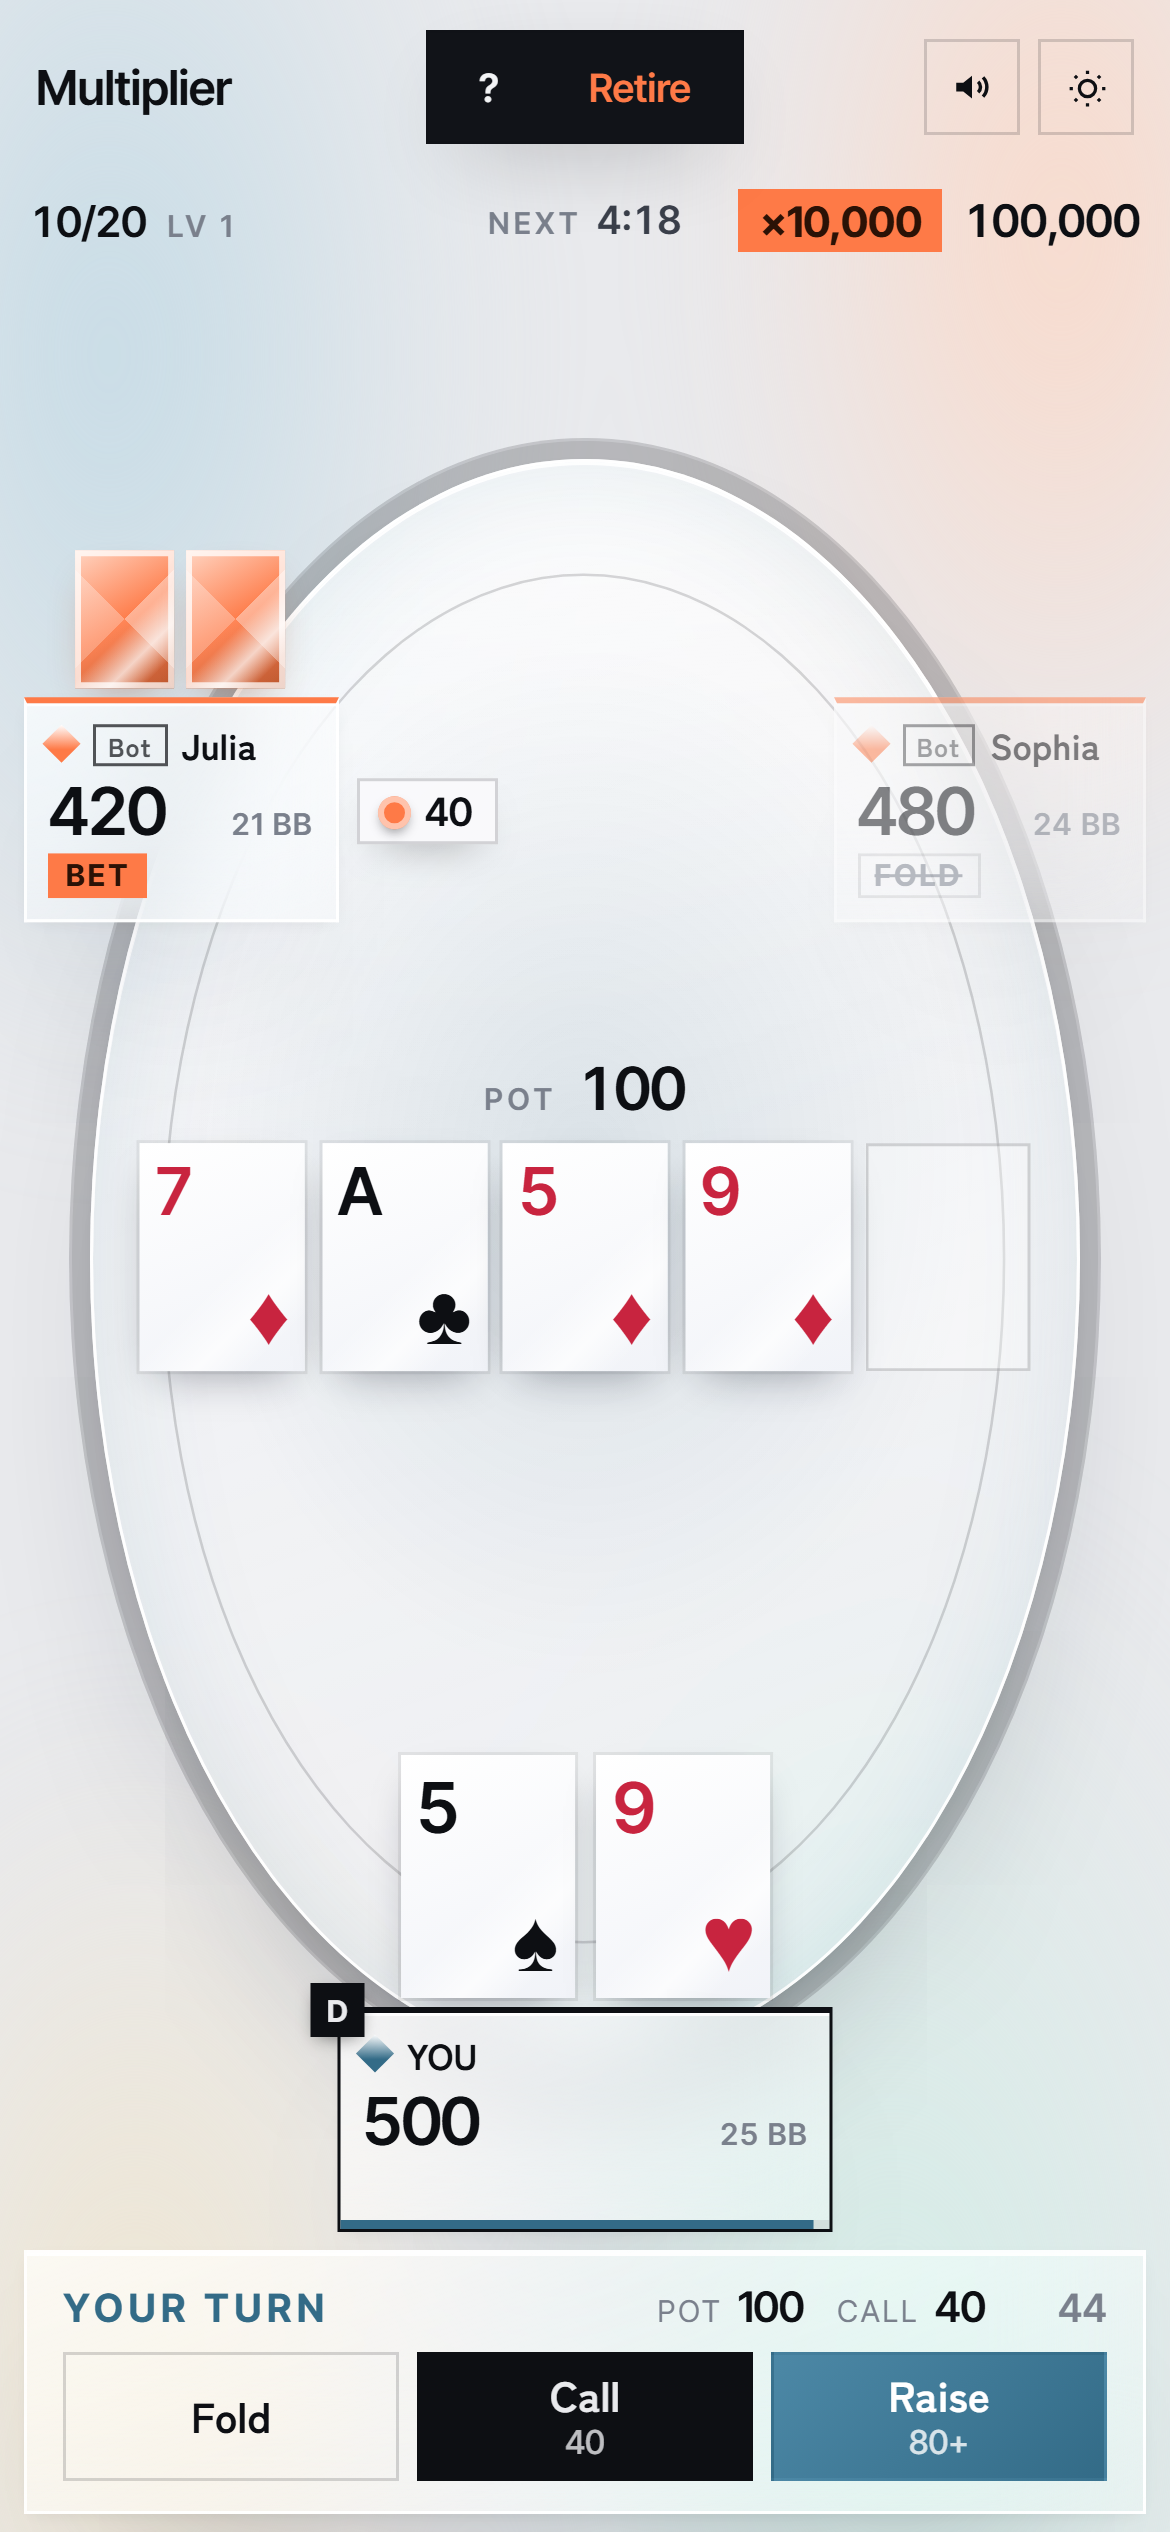
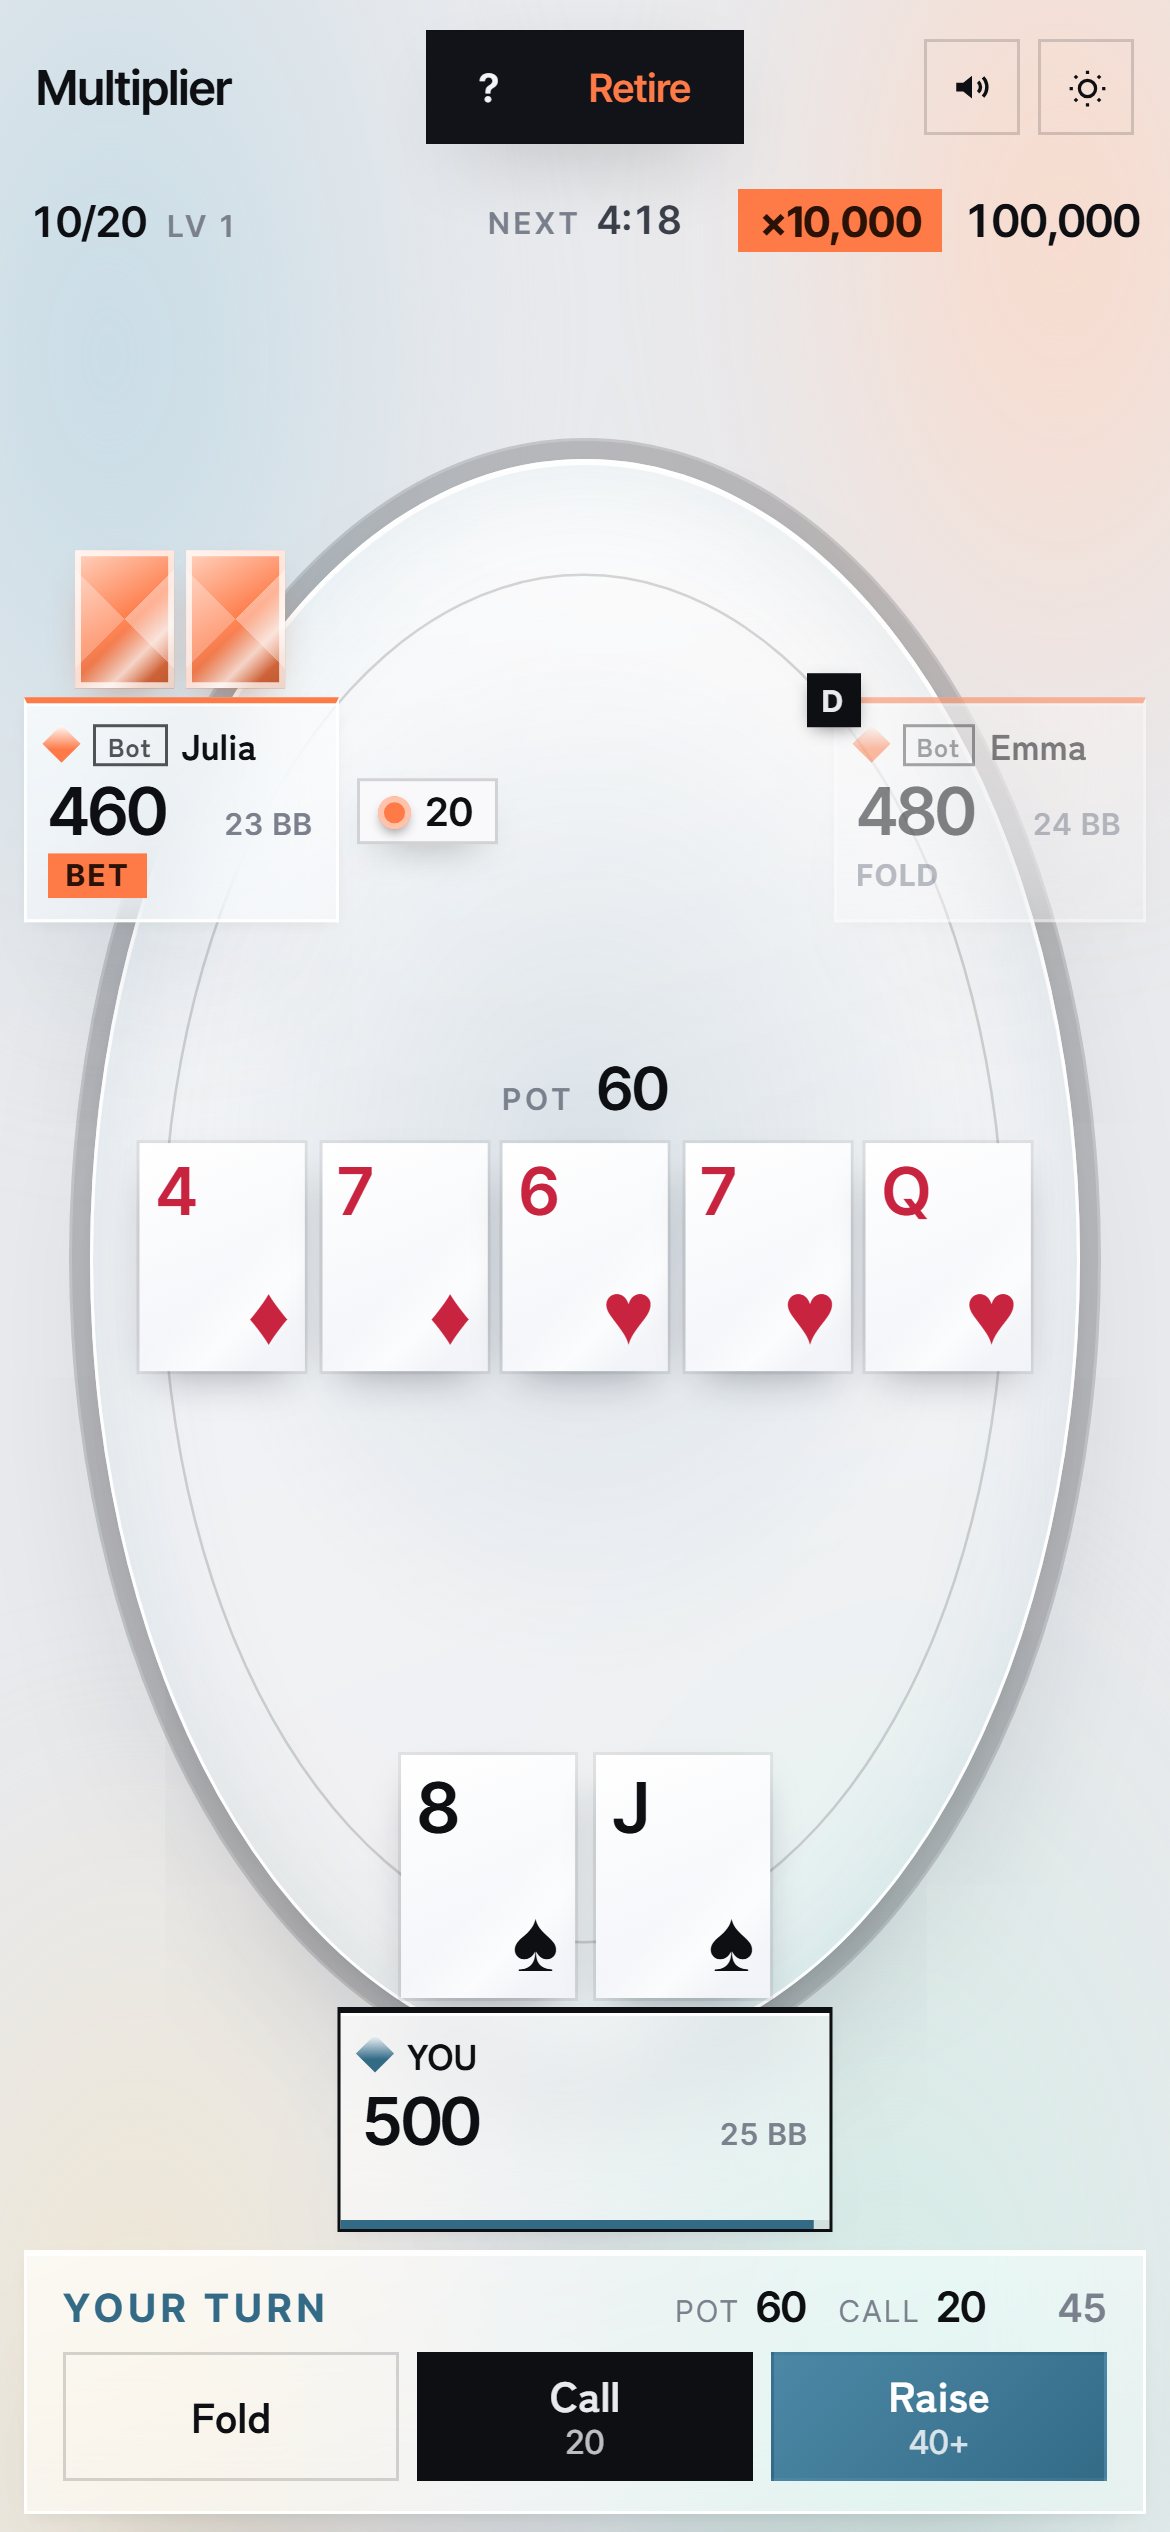
fix(ui): ライトテーマで大きな倍率のとき、回転中にルーレットが黒に切り替わらないようにする

diff --git a/src/style.css b/src/style.css
@@ -6,7 +6,7 @@
   --glass-hi:rgba(255,255,255,.74); --glass:rgba(255,255,255,.5); --glass-lo:rgba(255,255,255,.3);
   --edge:rgba(255,255,255,.9);
   --well:rgba(255,255,255,.34); --face:#F7F8FA;
-  --wd-face:#FFFFFF; --wd1:#FFFFFF; --wd2:#E2E4E9;
+  --wd-face:#FFFFFF; --wd1:#FFFFFF; --wd2:#E2E4E9; --wd-line:rgba(13,15,19,.16); --wd-ink:#3A3F4A; --wd-muted:#7A808C;
   --shadow:0 28px 60px -30px rgba(22,26,44,.38),0 2px 6px -2px rgba(22,26,44,.08);
   --you:#336B87; --cpu:#FE7A47; --you-soft:rgba(51,107,135,.12); --cpu-soft:rgba(254,122,71,.14); --cpu-ink:#2B1206; --you-text:#336B87;
   --card-ink:#0D0F13; --card-red:#C8243F;
@@ -24,7 +24,7 @@
     --hair:rgba(255,255,255,.08); --hair-2:rgba(255,255,255,.18);
     --glass-hi:rgba(255,255,255,.1); --glass:rgba(255,255,255,.06); --glass-lo:rgba(255,255,255,.03);
     --edge:rgba(255,255,255,.14); --well:rgba(255,255,255,.04); --face:#15171C;
-    --wd-face:#15171C; --wd1:#15171C; --wd2:#1E2127;
+    --wd-face:#15171C; --wd1:#15171C; --wd2:#1E2127; --wd-line:rgba(255,255,255,.18); --wd-ink:#C3C7D0; --wd-muted:#8B919D;
     --shadow:0 28px 60px -26px rgba(0,0,0,.75);
     --you-soft:rgba(51,107,135,.22); --cpu-soft:rgba(254,122,71,.16); --you-text:#7DB4CF;
     --nav-bg:rgba(255,255,255,.08); --nav-ink:#F1F2F5; --seg-on:rgba(255,255,255,.16);
@@ -39,7 +39,7 @@
   --hair:rgba(255,255,255,.08); --hair-2:rgba(255,255,255,.18);
   --glass-hi:rgba(255,255,255,.1); --glass:rgba(255,255,255,.06); --glass-lo:rgba(255,255,255,.03);
   --edge:rgba(255,255,255,.14); --well:rgba(255,255,255,.04); --face:#15171C;
-  --wd-face:#15171C; --wd1:#15171C; --wd2:#1E2127;
+  --wd-face:#15171C; --wd1:#15171C; --wd2:#1E2127; --wd-line:rgba(255,255,255,.18); --wd-ink:#C3C7D0; --wd-muted:#8B919D;
   --shadow:0 28px 60px -26px rgba(0,0,0,.75);
   --you-soft:rgba(51,107,135,.22); --cpu-soft:rgba(254,122,71,.16); --you-text:#7DB4CF;
   --nav-bg:rgba(255,255,255,.08); --nav-ink:#F1F2F5; --seg-on:rgba(255,255,255,.16);
@@ -401,8 +401,7 @@ dialog::backdrop{background:rgba(12,14,20,.28);-webkit-backdrop-filter:blur(8px)
 .w-stack{position:relative;z-index:2;display:grid;justify-items:center;gap:18px;width:100%;max-width:640px}
 /* dark palette for the dimmed tiers (applied under the darkening layer) */
 .wheel.dk{--bg:#0B0C10;--ink:#F1F2F5;--ink-2:#C3C7D0;--muted:#8B919D;--hair:rgba(255,255,255,.08);--hair-2:rgba(255,255,255,.18);
-  --glass-hi:rgba(255,255,255,.1);--glass-lo:rgba(255,255,255,.03);--edge:rgba(255,255,255,.14);--shadow:0 28px 60px -26px rgba(0,0,0,.75);--you-text:#7DB4CF;
-  --wd-face:#15171C;--wd1:#15171C;--wd2:#1E2127}
+  --glass-hi:rgba(255,255,255,.1);--glass-lo:rgba(255,255,255,.03);--edge:rgba(255,255,255,.14);--shadow:0 28px 60px -26px rgba(0,0,0,.75);--you-text:#7DB4CF}
 .wheel.dk.t3,.wheel.dk.t4{--bg:#05060A}
 .w-bg{inset:-40px;opacity:0}
 .w-rays{left:var(--rx,50%);top:var(--ry,50%);width:170vmax;height:170vmax;margin:-85vmax 0 0 -85vmax;opacity:0;will-change:transform;
@@ -420,23 +419,24 @@ dialog::backdrop{background:rgba(12,14,20,.28);-webkit-backdrop-filter:blur(8px)
 .w-fx{inset:0;width:100%;height:100%;z-index:4}
 .w-flash{inset:0;background:#fff;opacity:0;z-index:5}
 .w-top{position:relative;text-align:center}
-/* the round wheel: a glass disc with hairlines and square pegs (theme tokens), turned under a fixed orange pointer at the top */
+/* the round wheel: a disc with hairlines and square pegs, turned under a fixed orange pointer at the top. Its colours (--wd-*) are set per theme on :root only,
+   so the wheel keeps them when the screen darkens for a big multiplier (.wheel.dk) instead of switching mid-spin */
 .w-reel{position:relative;--ws:min(86vw,360px,calc(var(--app-h,100dvh) - 320px));width:var(--ws);height:var(--ws);flex:none}
 .w-rot{position:absolute;inset:0;will-change:transform}
 .w-disc,.w-front{position:absolute;inset:0;width:100%;height:100%;overflow:visible}
-.w-disc{filter:drop-shadow(0 22px 34px rgba(22,26,44,.28))}
+.w-disc{filter:drop-shadow(0 0 0 transparent) drop-shadow(0 22px 34px rgba(22,26,44,.28));transition:filter .8s ease-out}
 .wheel.dk .w-disc{filter:drop-shadow(0 0 34px color-mix(in srgb,var(--cpu) 30%,transparent)) drop-shadow(0 24px 40px rgba(0,0,0,.6))}
-.wd-base{fill:var(--wd-face);stroke:var(--edge);stroke-width:1}
+.wd-base{fill:var(--wd-face);stroke:var(--wd-line);stroke-width:1}
 .wd-f1{fill:var(--wd1)}
 .wd-f2{fill:var(--wd2)}
-.wd-ln path{stroke:var(--hair-2);stroke-width:1}
-.wd-ring{fill:none;stroke:var(--hair-2);stroke-width:1}
-.wd-peg rect{fill:var(--muted)}
+.wd-ln path{stroke:var(--wd-line);stroke-width:1}
+.wd-ring{fill:none;stroke:var(--wd-line);stroke-width:1}
+.wd-peg rect{fill:var(--wd-muted)}
 .wd-tx text{font-family:var(--f-num);letter-spacing:-.04em;text-anchor:middle;dominant-baseline:central}
 .wd-hi{fill:var(--cpu);font-weight:700}
-.wd-lo{fill:var(--ink-2);font-weight:600}
-.wd-lo tspan{fill:var(--muted)}
-.wd-hub{fill:var(--wd-face);stroke:var(--hair-2);stroke-width:1}
+.wd-lo{fill:var(--wd-ink);font-weight:600}
+.wd-lo tspan{fill:var(--wd-muted)}
+.wd-hub{fill:var(--wd-face);stroke:var(--wd-line);stroke-width:1}
 .wd-b{fill:var(--you)}
 .wd-o{fill:var(--cpu)}
 .w-ptr{fill:var(--cpu)}
